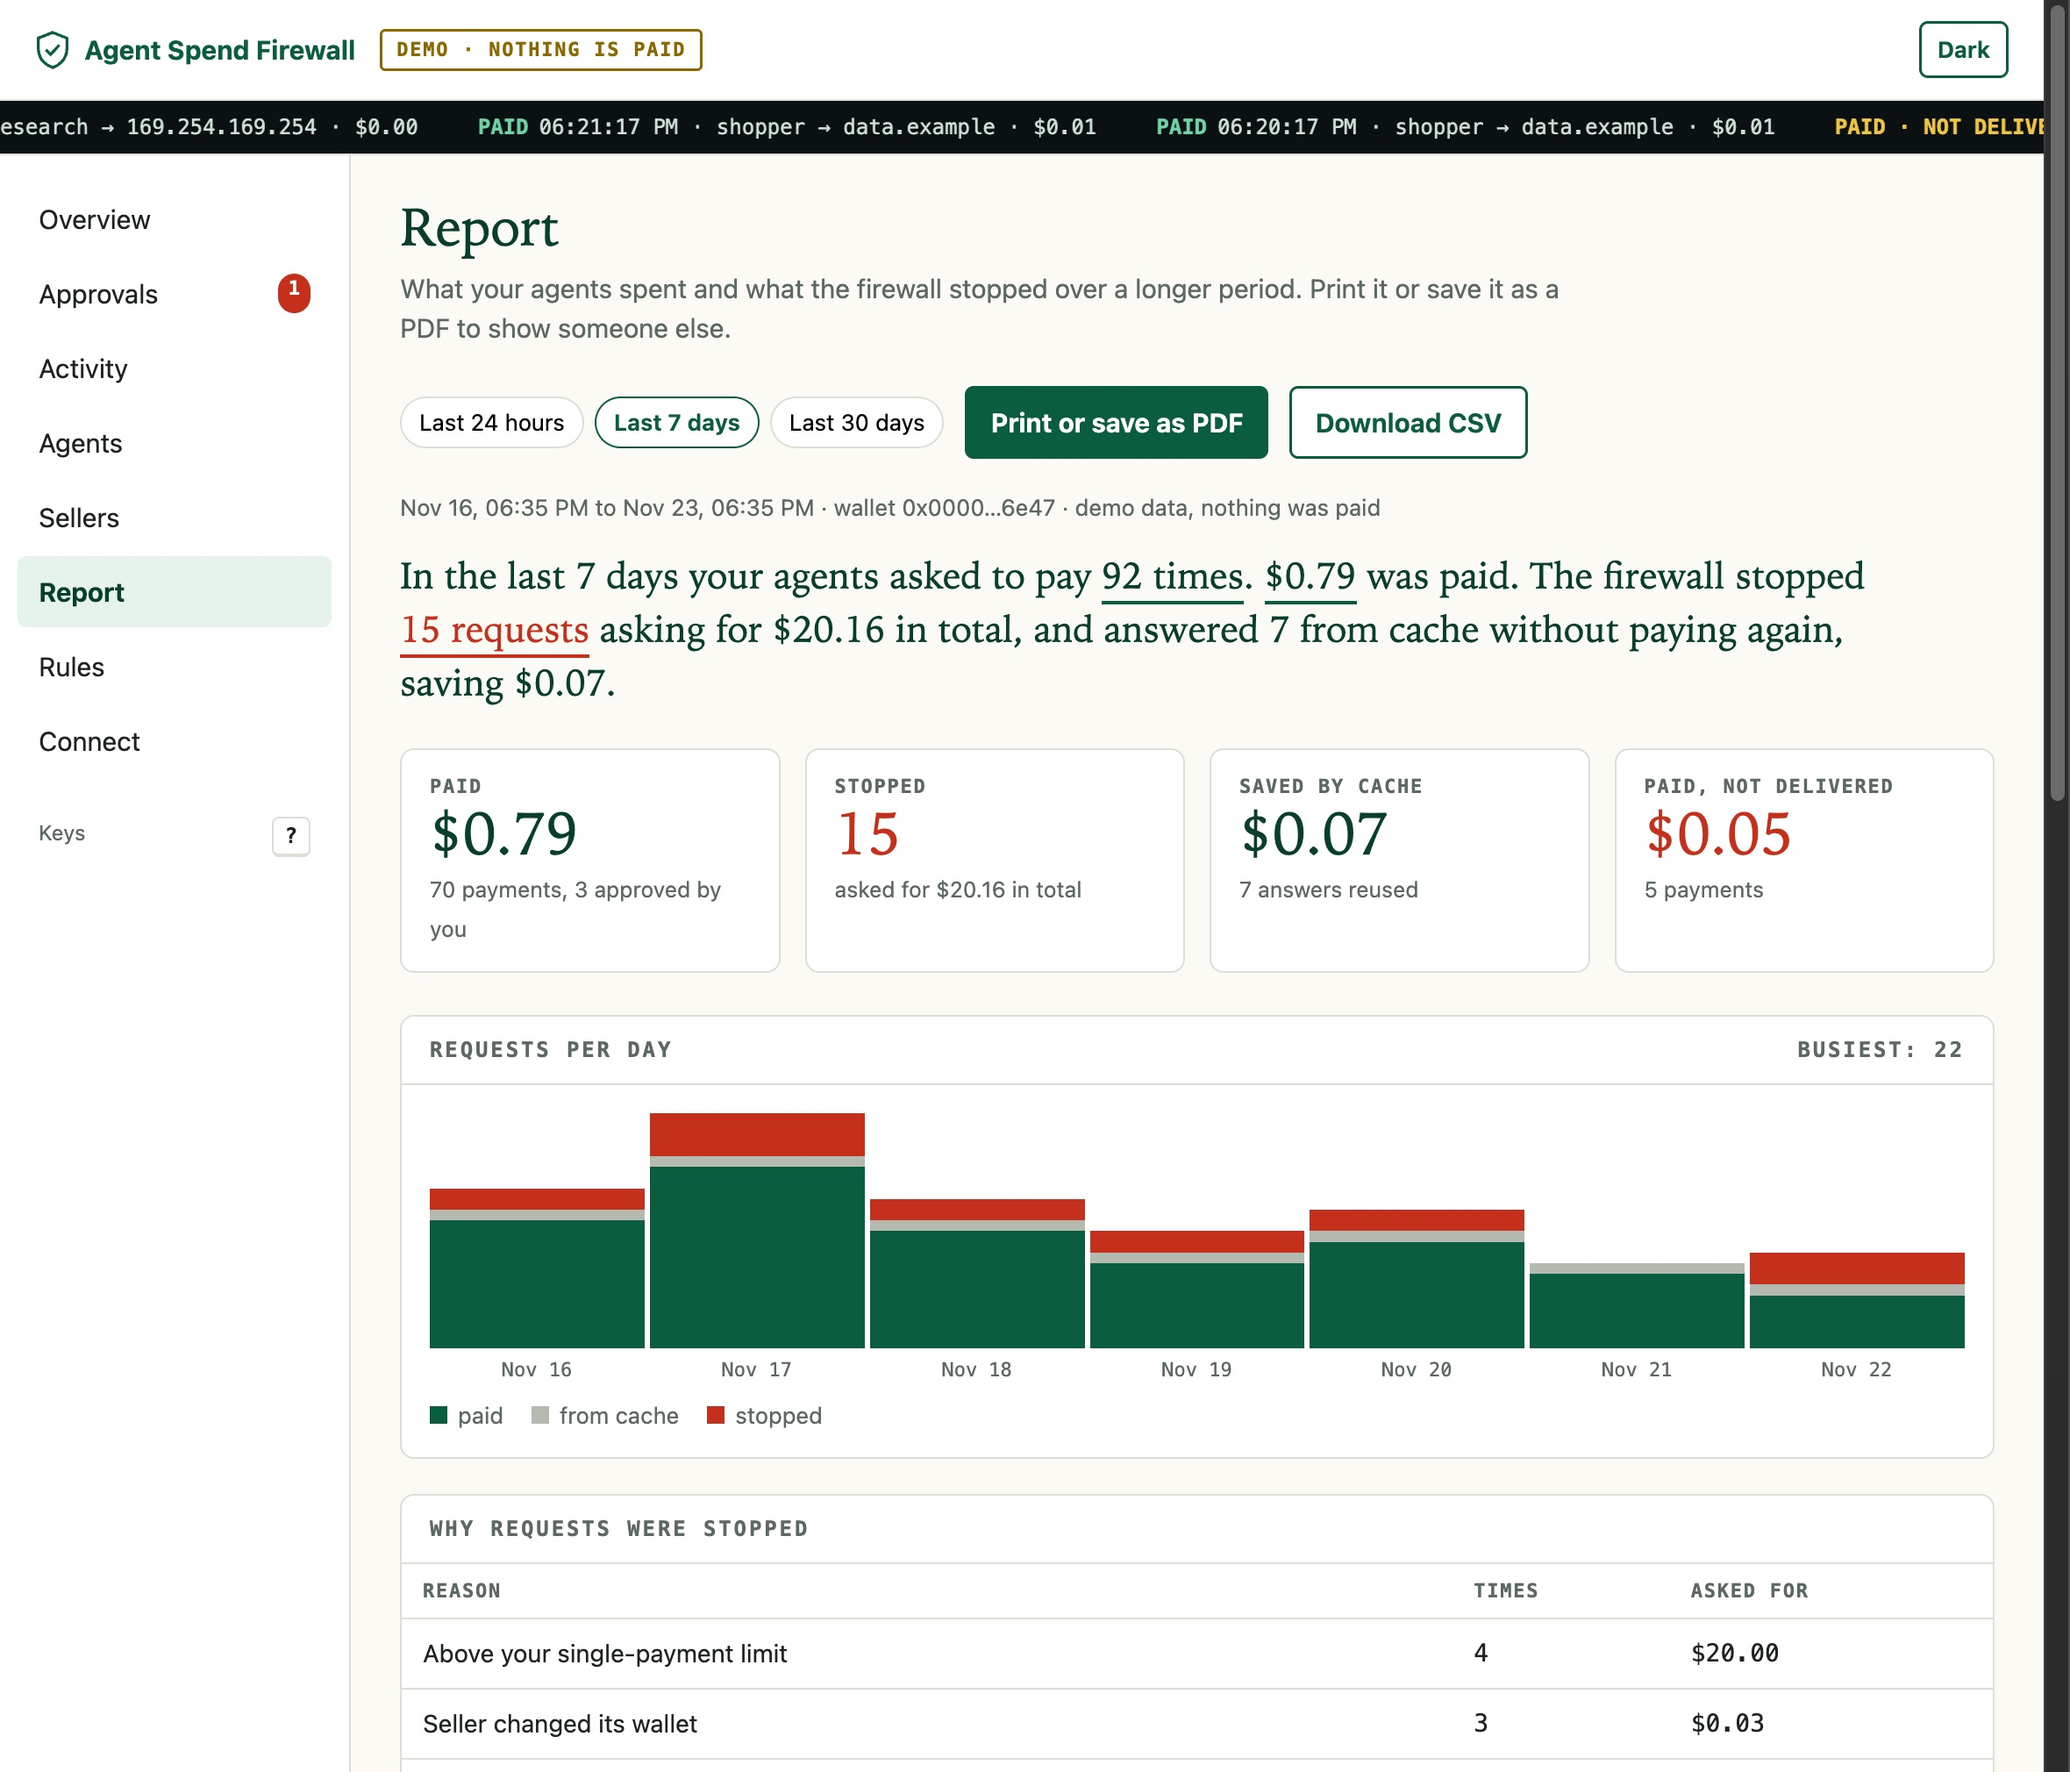
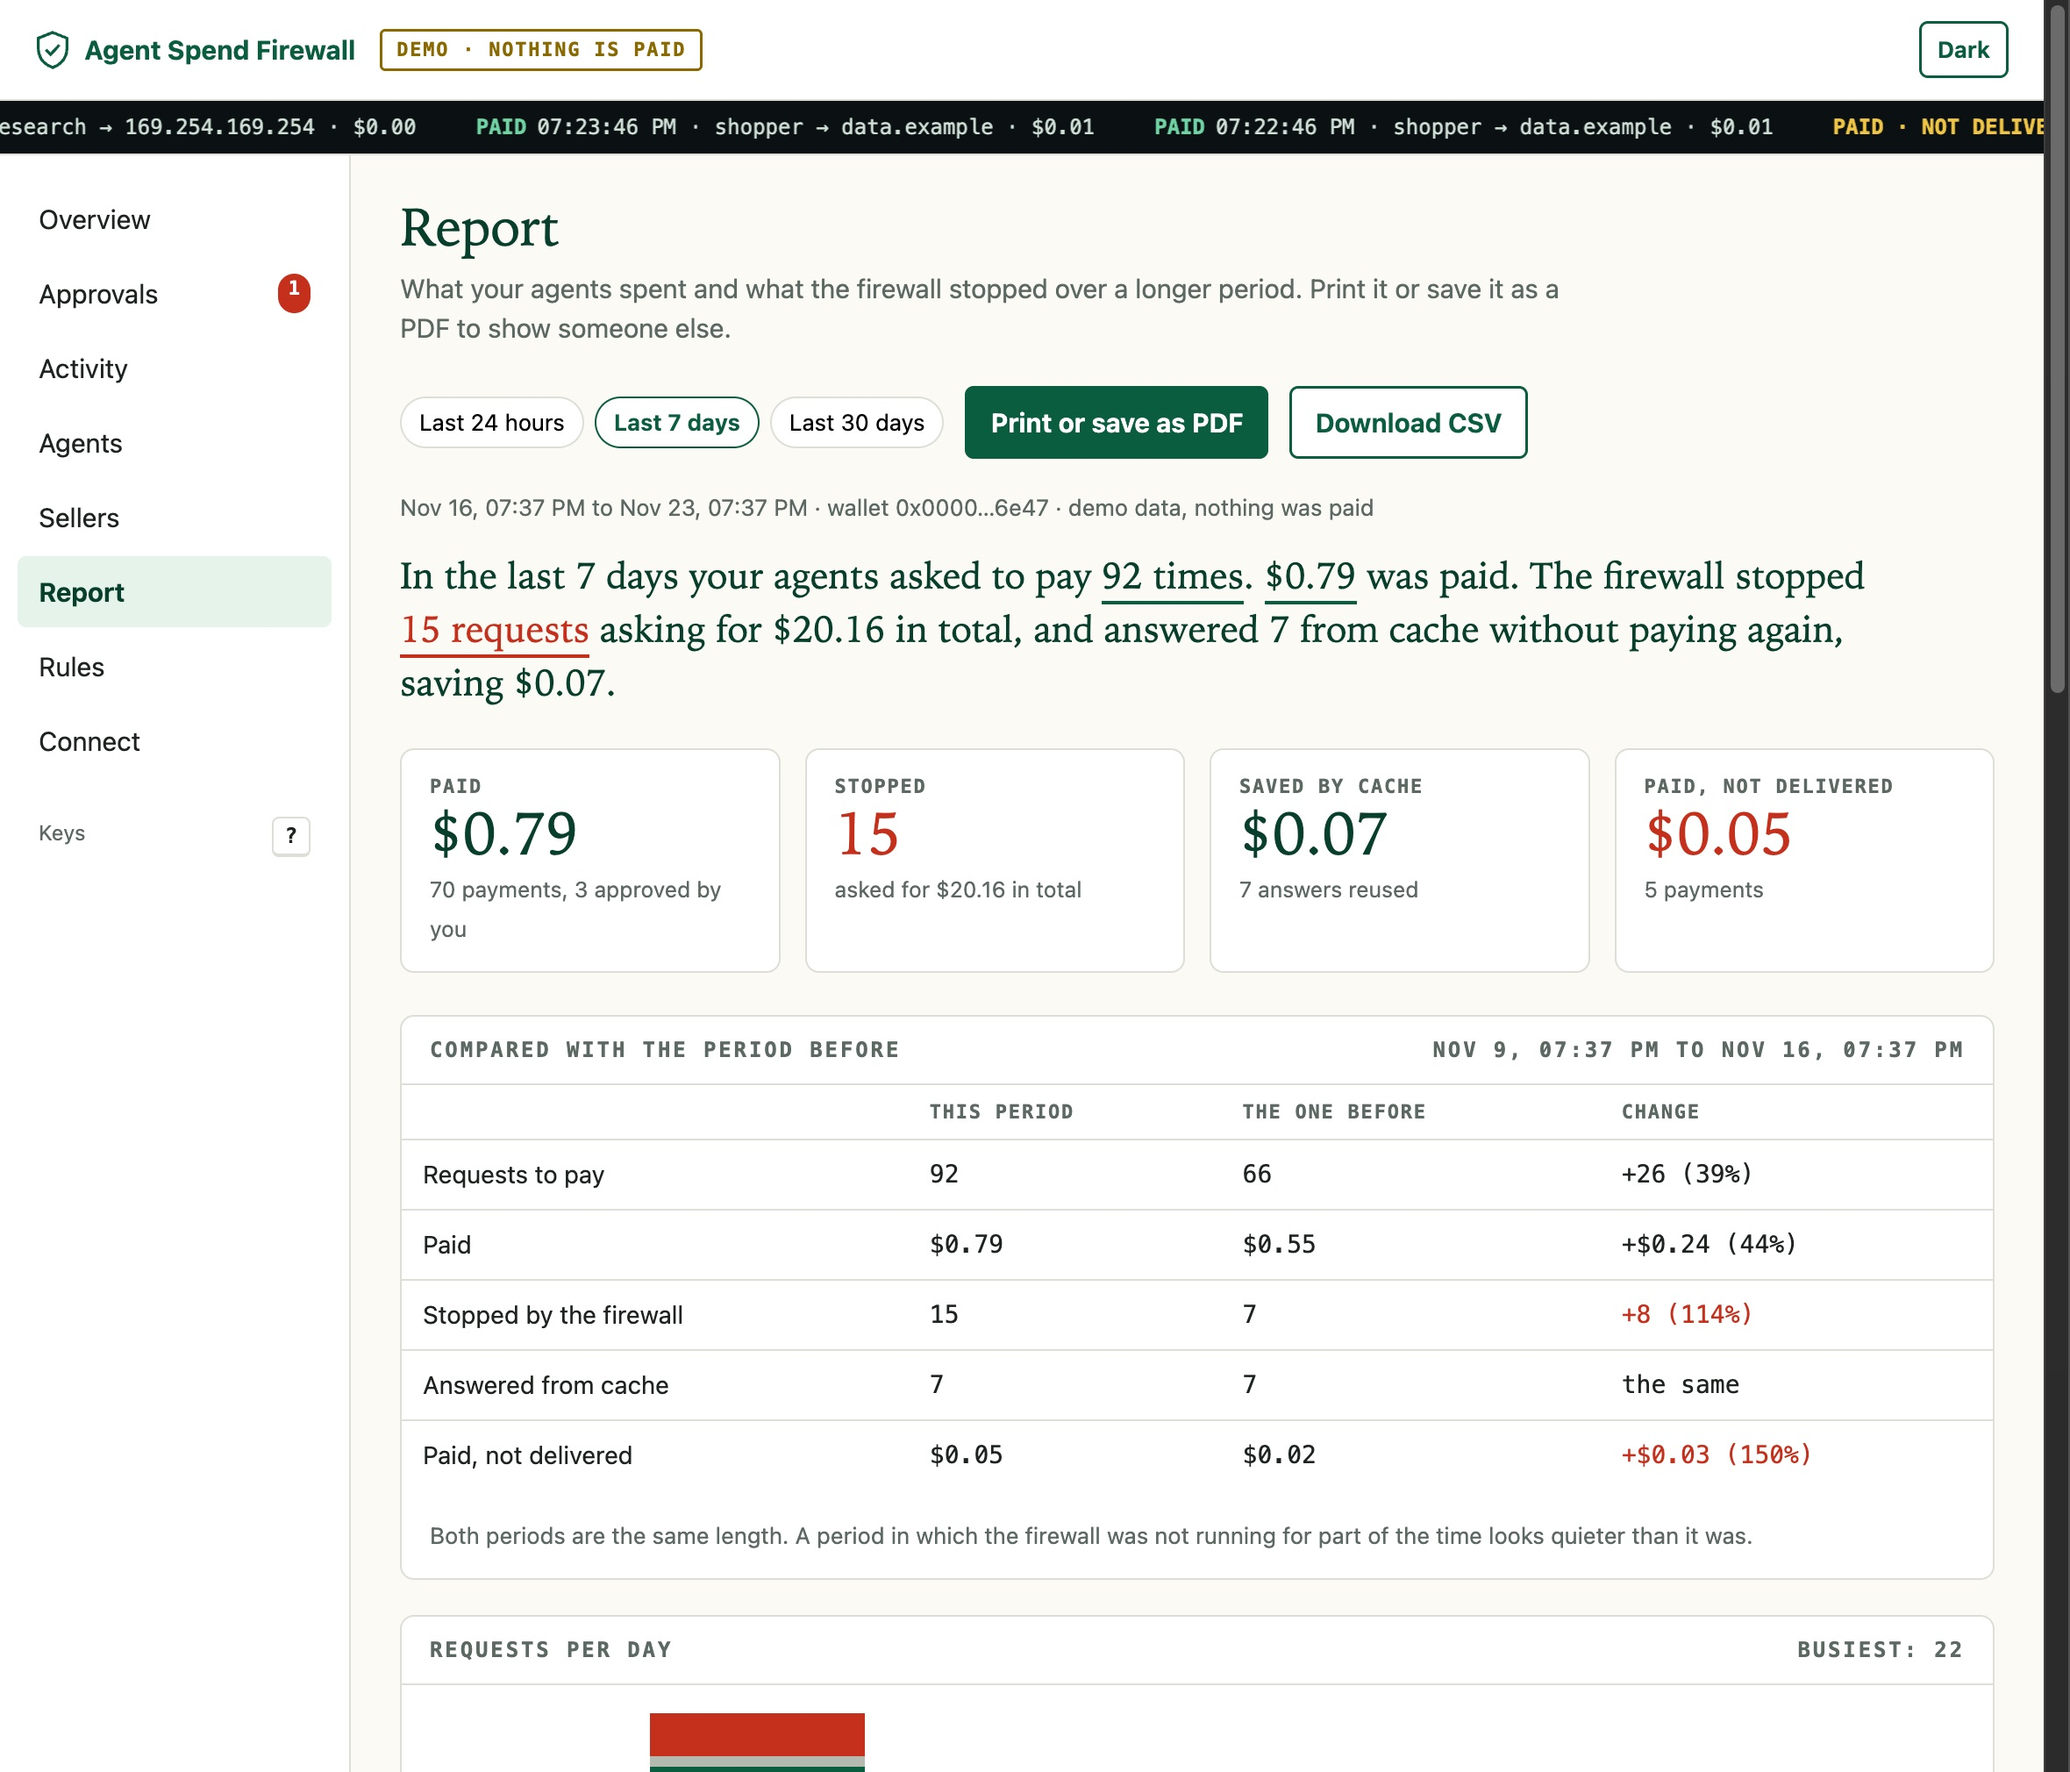
feat: the demo console has two weeks of history

diff --git a/docs/console/index.html b/docs/console/index.html
@@ -364,18 +364,18 @@ nav .keyhint{margin-top:14px;font-size:12px;color:var(--mute)}nav .keyhint kbd{m
         .forEach(function (x) { skew = x[0] * 60; act(x[1], x[2]); });
       skew = 0; hold = 900; act("research", "dataset"); hold = 0;
     }
-    // Six earlier days for the Report tab. Fixed script, no randomness; every decision still comes from the policy code.
+    // Thirteen earlier days for the Report tab, so a week has a week before it. Fixed script, no randomness; every decision still comes from the policy code.
     function seedWeek() {
-      for (var d = 6; d >= 1; d--) {
+      for (var d = 13; d >= 1; d--) {
         var day = d * 1440, plan = [[600, "research", "buy"], [598, "research", "again"], [540, "shopper", "buy"]], i;
         if (d % 2 === 0) plan.push([420, "research", "inject"]);
         if (d % 3 === 0) plan.push([300, "shopper", "swap"]);
-        for (i = 0; i < (d === 5 ? 18 : 3 + d); i++) plan.push([200 - i, "shopper", "loopbuy"]);
-        if (d === 4 || d === 2) plan.push([100, "research", "flaky"], [99, "research", "flaky"], [98, "research", "flaky"]);
+        for (i = 0; i < (d === 5 ? 18 : d > 6 ? d - 5 : 3 + d); i++) plan.push([200 - i, "shopper", "loopbuy"]);
+        if (d === 4 || d === 2 || d === 10) plan.push([100, "research", "flaky"], [99, "research", "flaky"], [98, "research", "flaky"]);
         plan.forEach(function (x) { skew = (day + x[0]) * 60; act(x[1], x[2]); });
       }
       // What the owner answered on earlier days: pretend answers, so the Approvals history is not empty.
-      [[1, 700, "yes"], [2, 500, "yes"], [3, 320, "no"], [5, 410, "late"], [6, 200, "yes"]].forEach(function (x) {
+      [[1, 700, "yes"], [2, 500, "yes"], [3, 320, "no"], [5, 410, "late"], [6, 200, "yes"], [9, 300, "yes"], [12, 450, "no"]].forEach(function (x) {
         skew = (x[0] * 1440 + x[1]) * 60;
         var req = { agent: x[0] % 2 ? "research" : "shopper", host: "data.example", atoms: 40000, payee: "0x1111111111111111111111111111111111111111" };
         entry(req, x[2] === "yes" ? { allow: true, delivered: true, approved: true, tx: "demo" } : { allow: false, code: "APPROVAL", reason: x[2] === "no" ? "owner denied" : "no answer in time" });

diff --git a/src/console.html b/src/console.html
@@ -363,18 +363,18 @@ nav .keyhint{margin-top:14px;font-size:12px;color:var(--mute)}nav .keyhint kbd{m
         .forEach(function (x) { skew = x[0] * 60; act(x[1], x[2]); });
       skew = 0; hold = 900; act("research", "dataset"); hold = 0;
     }
-    // Six earlier days for the Report tab. Fixed script, no randomness; every decision still comes from the policy code.
+    // Thirteen earlier days for the Report tab, so a week has a week before it. Fixed script, no randomness; every decision still comes from the policy code.
     function seedWeek() {
-      for (var d = 6; d >= 1; d--) {
+      for (var d = 13; d >= 1; d--) {
         var day = d * 1440, plan = [[600, "research", "buy"], [598, "research", "again"], [540, "shopper", "buy"]], i;
         if (d % 2 === 0) plan.push([420, "research", "inject"]);
         if (d % 3 === 0) plan.push([300, "shopper", "swap"]);
-        for (i = 0; i < (d === 5 ? 18 : 3 + d); i++) plan.push([200 - i, "shopper", "loopbuy"]);
-        if (d === 4 || d === 2) plan.push([100, "research", "flaky"], [99, "research", "flaky"], [98, "research", "flaky"]);
+        for (i = 0; i < (d === 5 ? 18 : d > 6 ? d - 5 : 3 + d); i++) plan.push([200 - i, "shopper", "loopbuy"]);
+        if (d === 4 || d === 2 || d === 10) plan.push([100, "research", "flaky"], [99, "research", "flaky"], [98, "research", "flaky"]);
         plan.forEach(function (x) { skew = (day + x[0]) * 60; act(x[1], x[2]); });
       }
       // What the owner answered on earlier days: pretend answers, so the Approvals history is not empty.
-      [[1, 700, "yes"], [2, 500, "yes"], [3, 320, "no"], [5, 410, "late"], [6, 200, "yes"]].forEach(function (x) {
+      [[1, 700, "yes"], [2, 500, "yes"], [3, 320, "no"], [5, 410, "late"], [6, 200, "yes"], [9, 300, "yes"], [12, 450, "no"]].forEach(function (x) {
         skew = (x[0] * 1440 + x[1]) * 60;
         var req = { agent: x[0] % 2 ? "research" : "shopper", host: "data.example", atoms: 40000, payee: "0x1111111111111111111111111111111111111111" };
         entry(req, x[2] === "yes" ? { allow: true, delivered: true, approved: true, tx: "demo" } : { allow: false, code: "APPROVAL", reason: x[2] === "no" ? "owner denied" : "no answer in time" });
